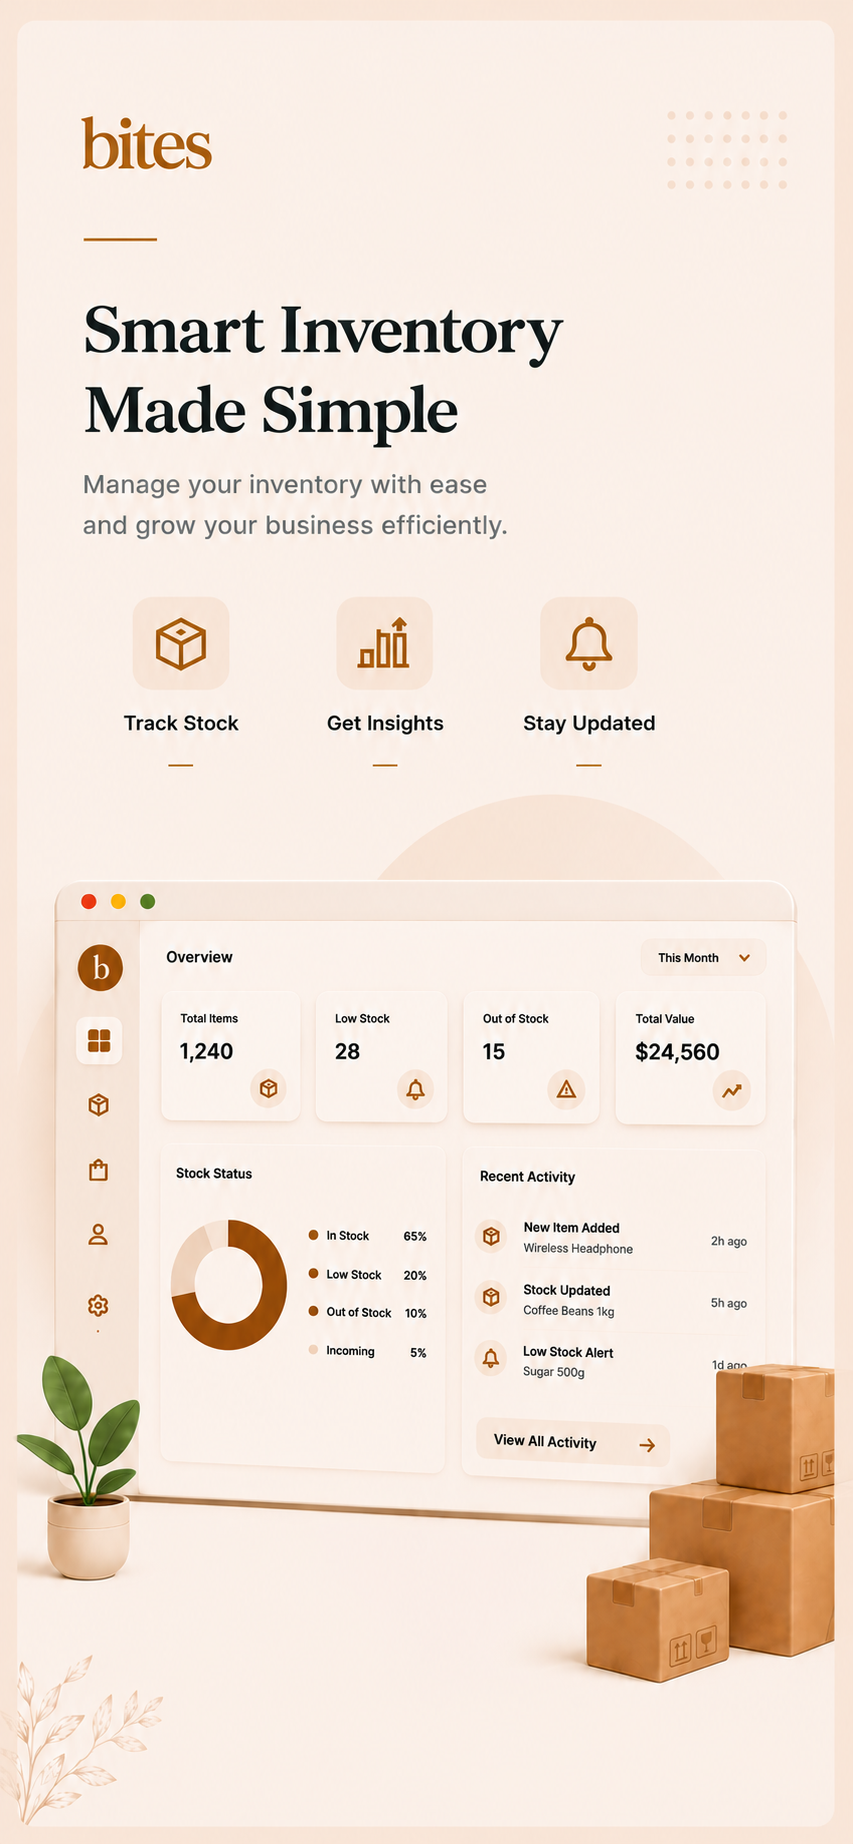
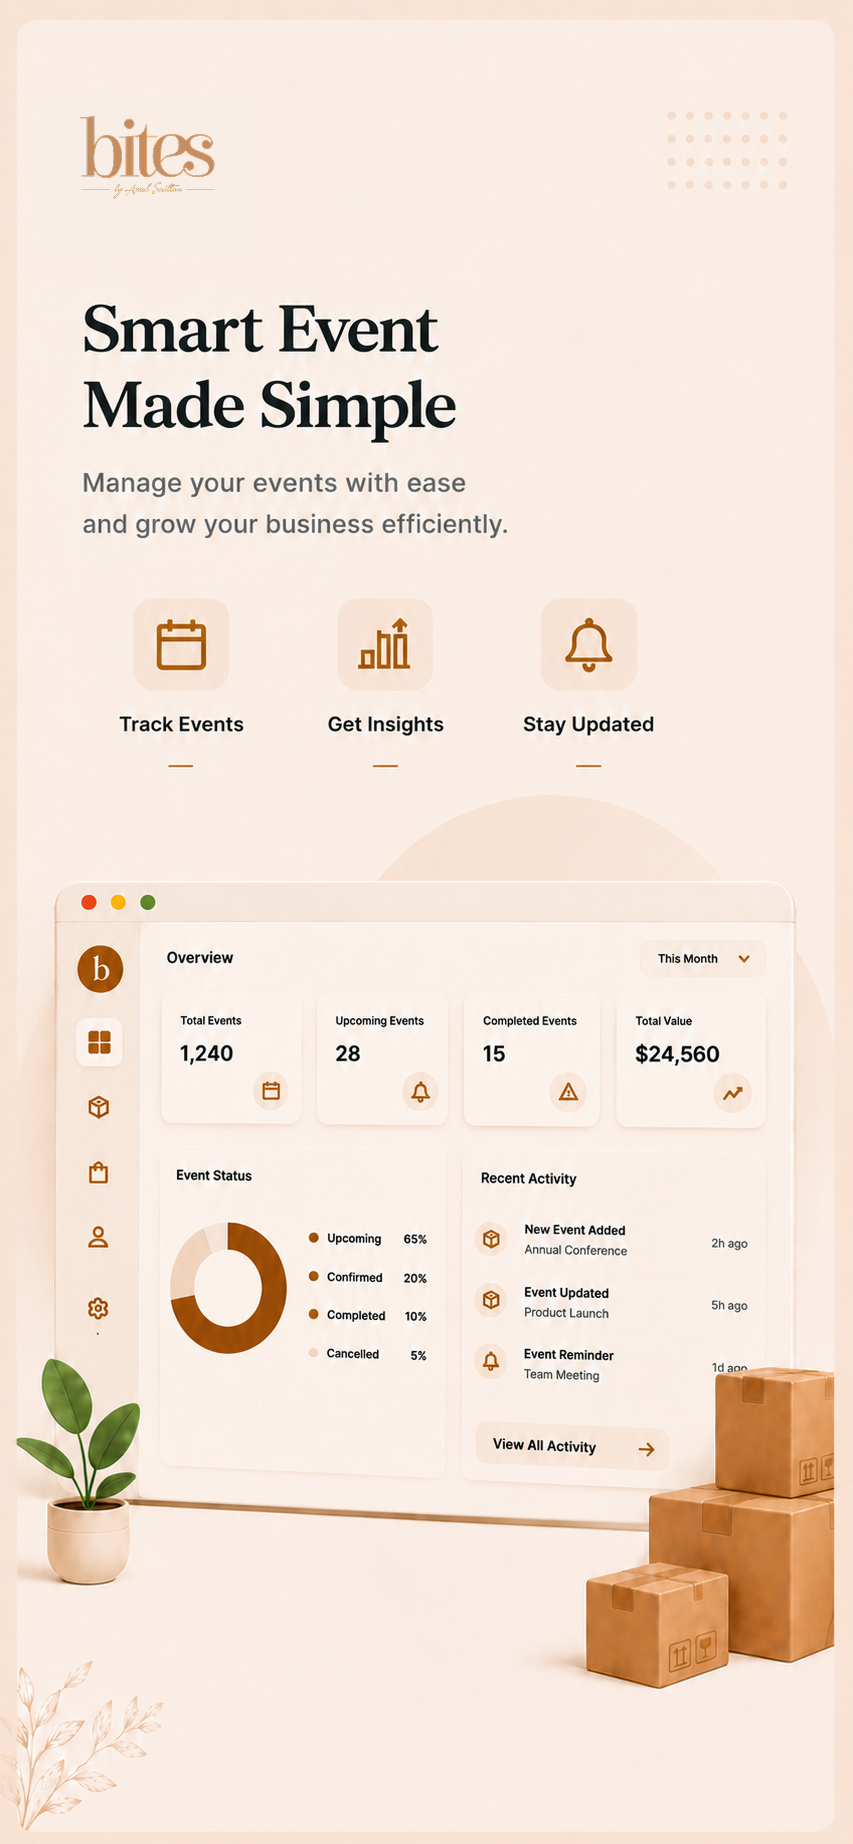
updates

diff --git a/src/components/dashboard/DashboardCharts.jsx b/src/components/dashboard/DashboardCharts.jsx
@@ -204,20 +204,28 @@ export default function DashboardCharts({
       })
     );
 
-  const branchCounts = events.reduce(
-    (result, event) => {
-      if (!event.branch) {
+  const branchCounts = events
+    .filter(
+      (event) =>
+        String(event.status)
+          .trim()
+          .toLowerCase() !==
+        "cancelled"
+    )
+    .reduce(
+      (result, event) => {
+        if (!event.branch) {
+          return result;
+        }
+
+        result[event.branch] =
+          (result[event.branch] || 0) +
+          1;
+
         return result;
-      }
-
-      result[event.branch] =
-        (result[event.branch] || 0) +
-        1;
-
-      return result;
-    },
-    {}
-  );
+      },
+      {}
+    );
 
   const branchData =
     Object.entries(branchCounts).map(
